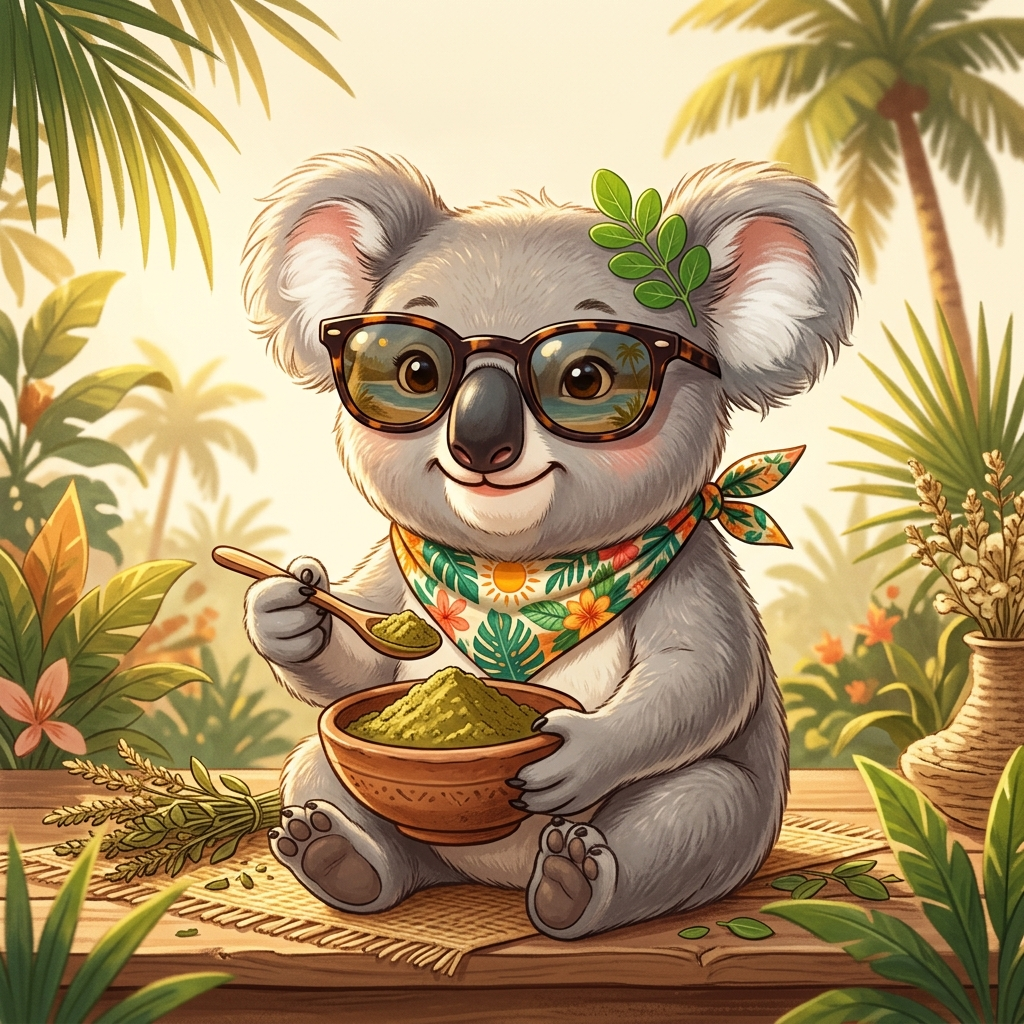
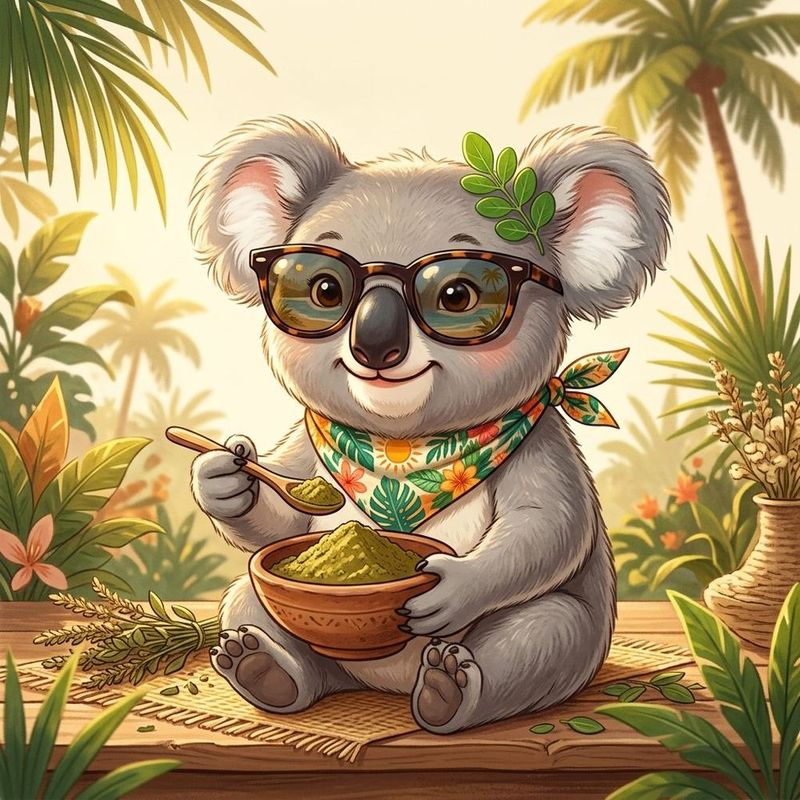
Fix React Hook #310 crash in CartDrawer, optimize image assets by 97% for ultra fast load times, and add 2s timeout fallback for Supabase

diff --git a/src/components/CartDrawer.tsx b/src/components/CartDrawer.tsx
@@ -26,6 +26,7 @@ export const CartDrawer: React.FC<CartDrawerProps> = ({
   const [isCheckoutStep, setIsCheckoutStep] = useState(false);
   const [orderComplete, setOrderComplete] = useState(false);
   const [orderTrackingCode, setOrderTrackingCode] = useState('');
+  const [lastWaMessage, setLastWaMessage] = useState('');
   
   const [formData, setFormData] = useState({
     fullName: '',
@@ -41,7 +42,7 @@ export const CartDrawer: React.FC<CartDrawerProps> = ({
   const shippingCost = 150; // Flat Rs. 150 delivery charges
   const totalAmount = subtotal + shippingCost;
 
-  // Check if eligible for upselling to the Complete Kit (contains face pack, toner or rose water individually)
+  // Check if eligible for upselling to the Complete Kit
   const hasFacePack = cartItems.some(i => i.product.id === 'koveria-glow-face-pack');
   const hasToner = cartItems.some(i => i.product.id === 'koveria-glow-toner');
   const hasRoseWater = cartItems.some(i => i.product.id === 'pure-rose-water');
@@ -50,19 +51,15 @@ export const CartDrawer: React.FC<CartDrawerProps> = ({
   const showUpsell = (hasFacePack || hasToner || hasRoseWater) && !hasCompleteKit;
 
   const handleUpgradeToKit = () => {
-    // Remove individual items
     onRemoveItem('koveria-glow-face-pack');
     onRemoveItem('koveria-glow-toner');
     onRemoveItem('pure-rose-water');
     
-    // Add Complete Kit
     const kitProduct = PRODUCTS.find(p => p.id === 'koveria-glow-complete-kit');
     if (kitProduct) {
       onAddToCart(kitProduct);
     }
   };
-
-  const [lastWaMessage, setLastWaMessage] = useState('');
 
   const buildWaMessage = (trackingCode: string) => {
     const itemsSummary = cartItems.map(i => `• ${i.quantity}x ${i.product.name} (Rs. ${(i.product.price * i.quantity).toLocaleString()})`).join('\n');

diff --git a/src/services/supabase.ts b/src/services/supabase.ts
@@ -14,9 +14,12 @@ export const supabase = createClient(SUPABASE_URL, SUPABASE_ANON_KEY);
 
 export async function fetchLiveProducts(): Promise<Product[]> {
   try {
-    const { data, error } = await supabase
-      .from('products')
-      .select('*');
+    const fetchPromise = supabase.from('products').select('*');
+    const timeoutPromise = new Promise<{ data: null; error: Error }>((_, reject) =>
+      setTimeout(() => reject(new Error('Supabase request timeout')), 2000)
+    );
+
+    const { data, error } = await Promise.race([fetchPromise, timeoutPromise]) as any;
 
     if (!error && data && data.length > 0) {
       return data.map((item: any) => ({
@@ -41,7 +44,7 @@ export async function fetchLiveProducts(): Promise<Product[]> {
       }));
     }
   } catch (err) {
-    console.warn('[Supabase Products] Fetch error, using fallback', err);
+    console.warn('[Supabase Products] Fetch error or timeout, using fallback', err);
   }
 
   // Fallback to cache or default products

diff --git a/scripts/optimize_images.py b/scripts/optimize_images.py
@@ -1,0 +1,30 @@
+import os
+from PIL import Image
+
+def optimize_directory(dir_path):
+    if not os.path.exists(dir_path):
+        return
+    for filename in os.listdir(dir_path):
+        filepath = os.path.join(dir_path, filename)
+        if os.path.isfile(filepath) and filename.lower().endswith(('.png', '.jpg', '.jpeg')):
+            old_size = os.path.getsize(filepath)
+            try:
+                with Image.open(filepath) as img:
+                    max_dim = 800
+                    if img.width > max_dim or img.height > max_dim:
+                        img.thumbnail((max_dim, max_dim), Image.Resampling.LANCZOS)
+
+                    if img.mode in ('RGBA', 'LA'):
+                        quantized = img.quantize(colors=256, method=Image.Quantize.FASTOCTREE)
+                        quantized.save(filepath, 'PNG', optimize=True)
+                    else:
+                        img = img.convert('RGB')
+                        img.save(filepath, 'JPEG', optimize=True, quality=80)
+                new_size = os.path.getsize(filepath)
+                print(f"Compressed {filename}: {old_size / 1024:.2f} KB -> {new_size / 1024:.2f} KB ({((old_size - new_size) / old_size)*100:.1f}% reduction)")
+            except Exception as e:
+                print(f"Error optimizing {filename}: {e}")
+
+if __name__ == '__main__':
+    public_img_dir = r"c:\Users\Lenovo\Desktop\Pure Herbex\PUREHERBEX-KOVERIA-main\public\images"
+    optimize_directory(public_img_dir)
